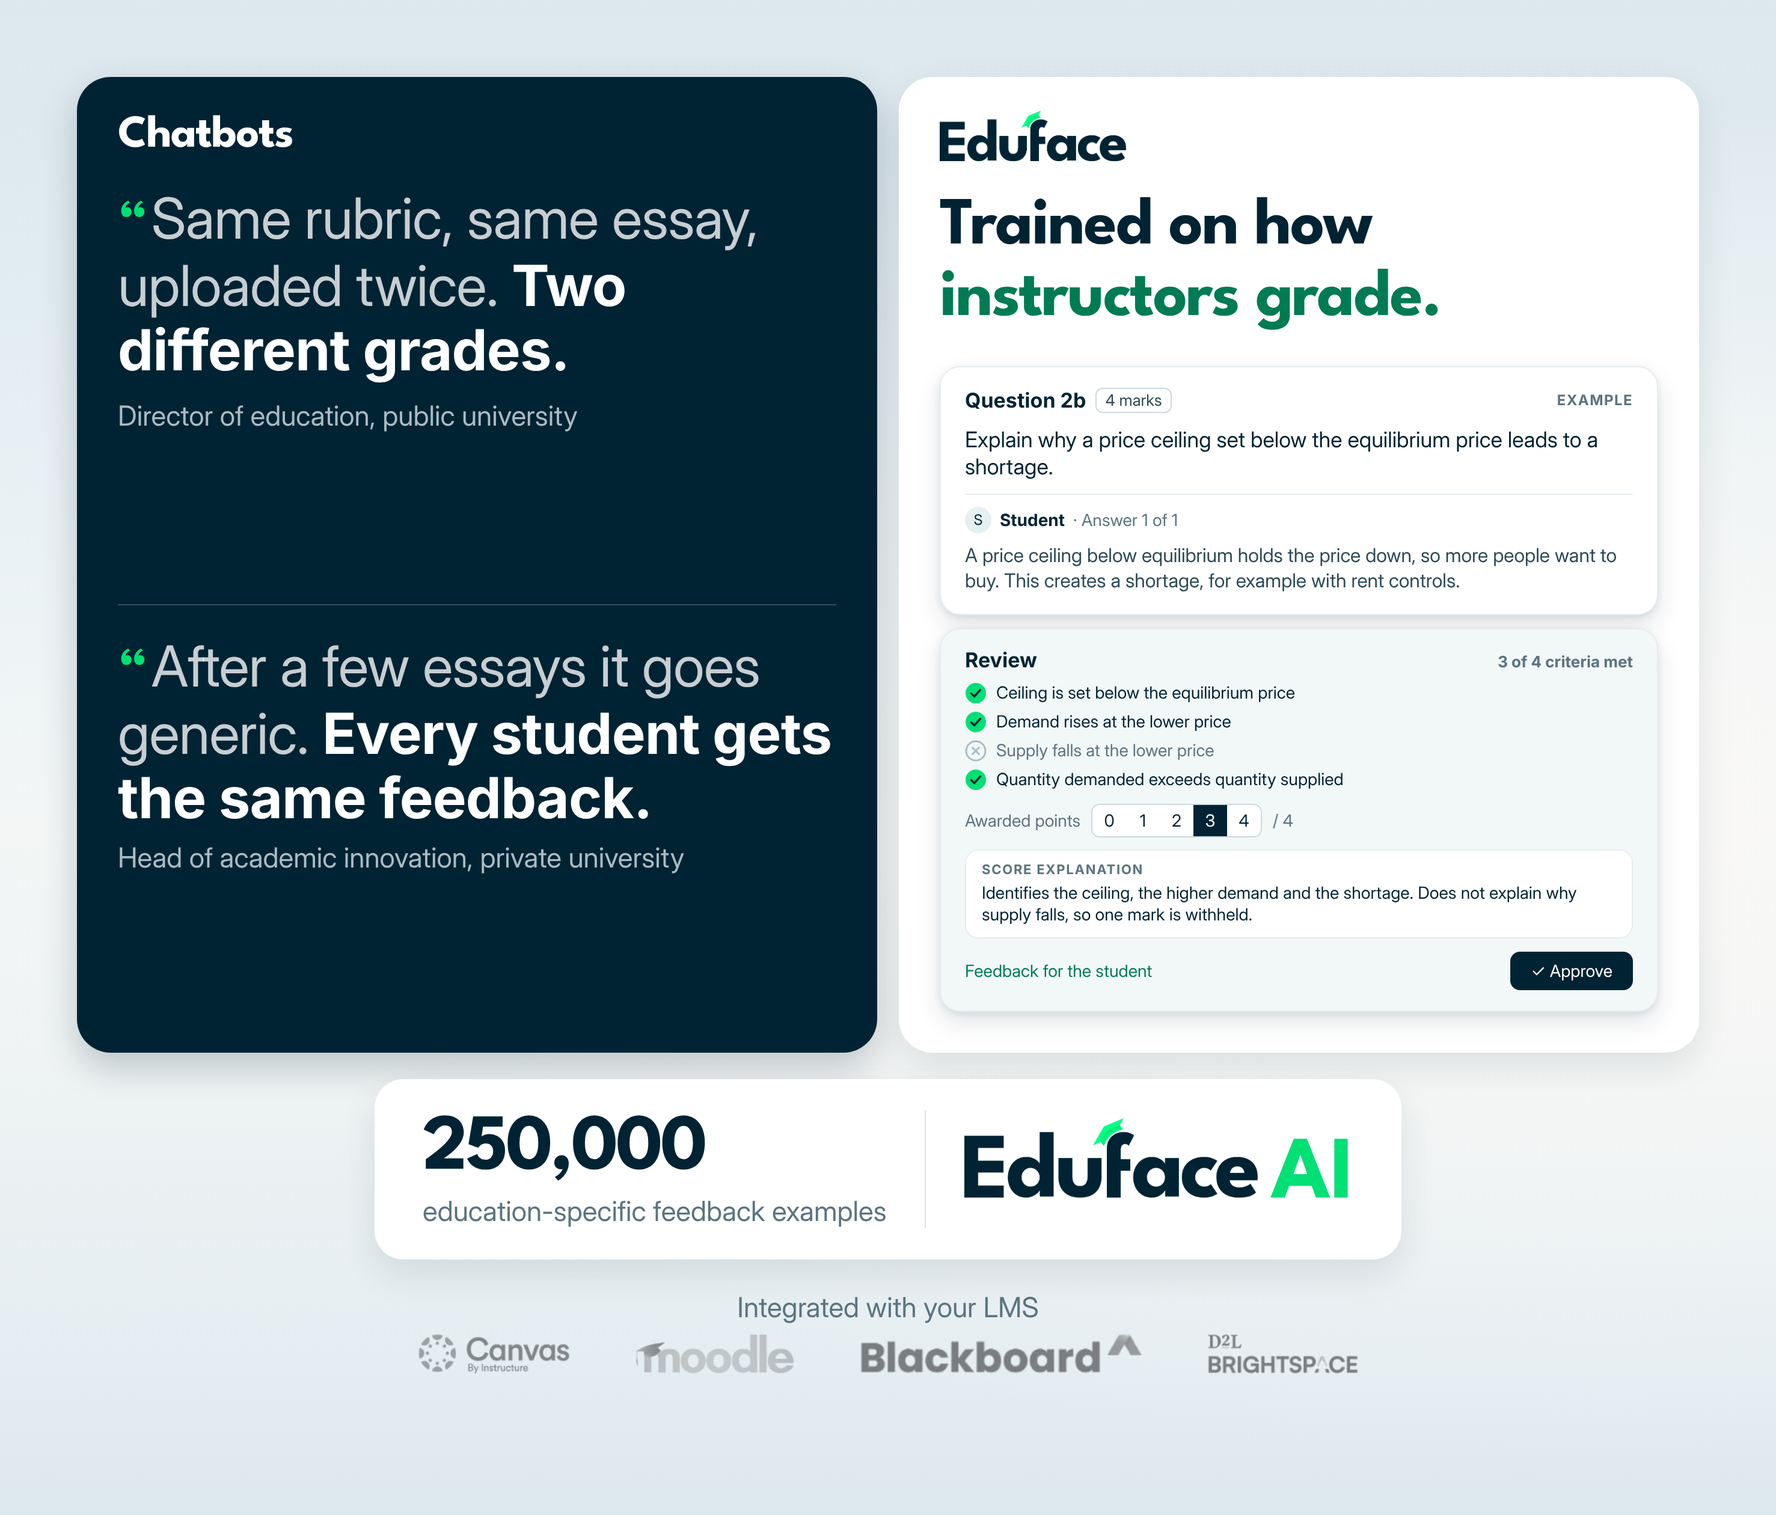
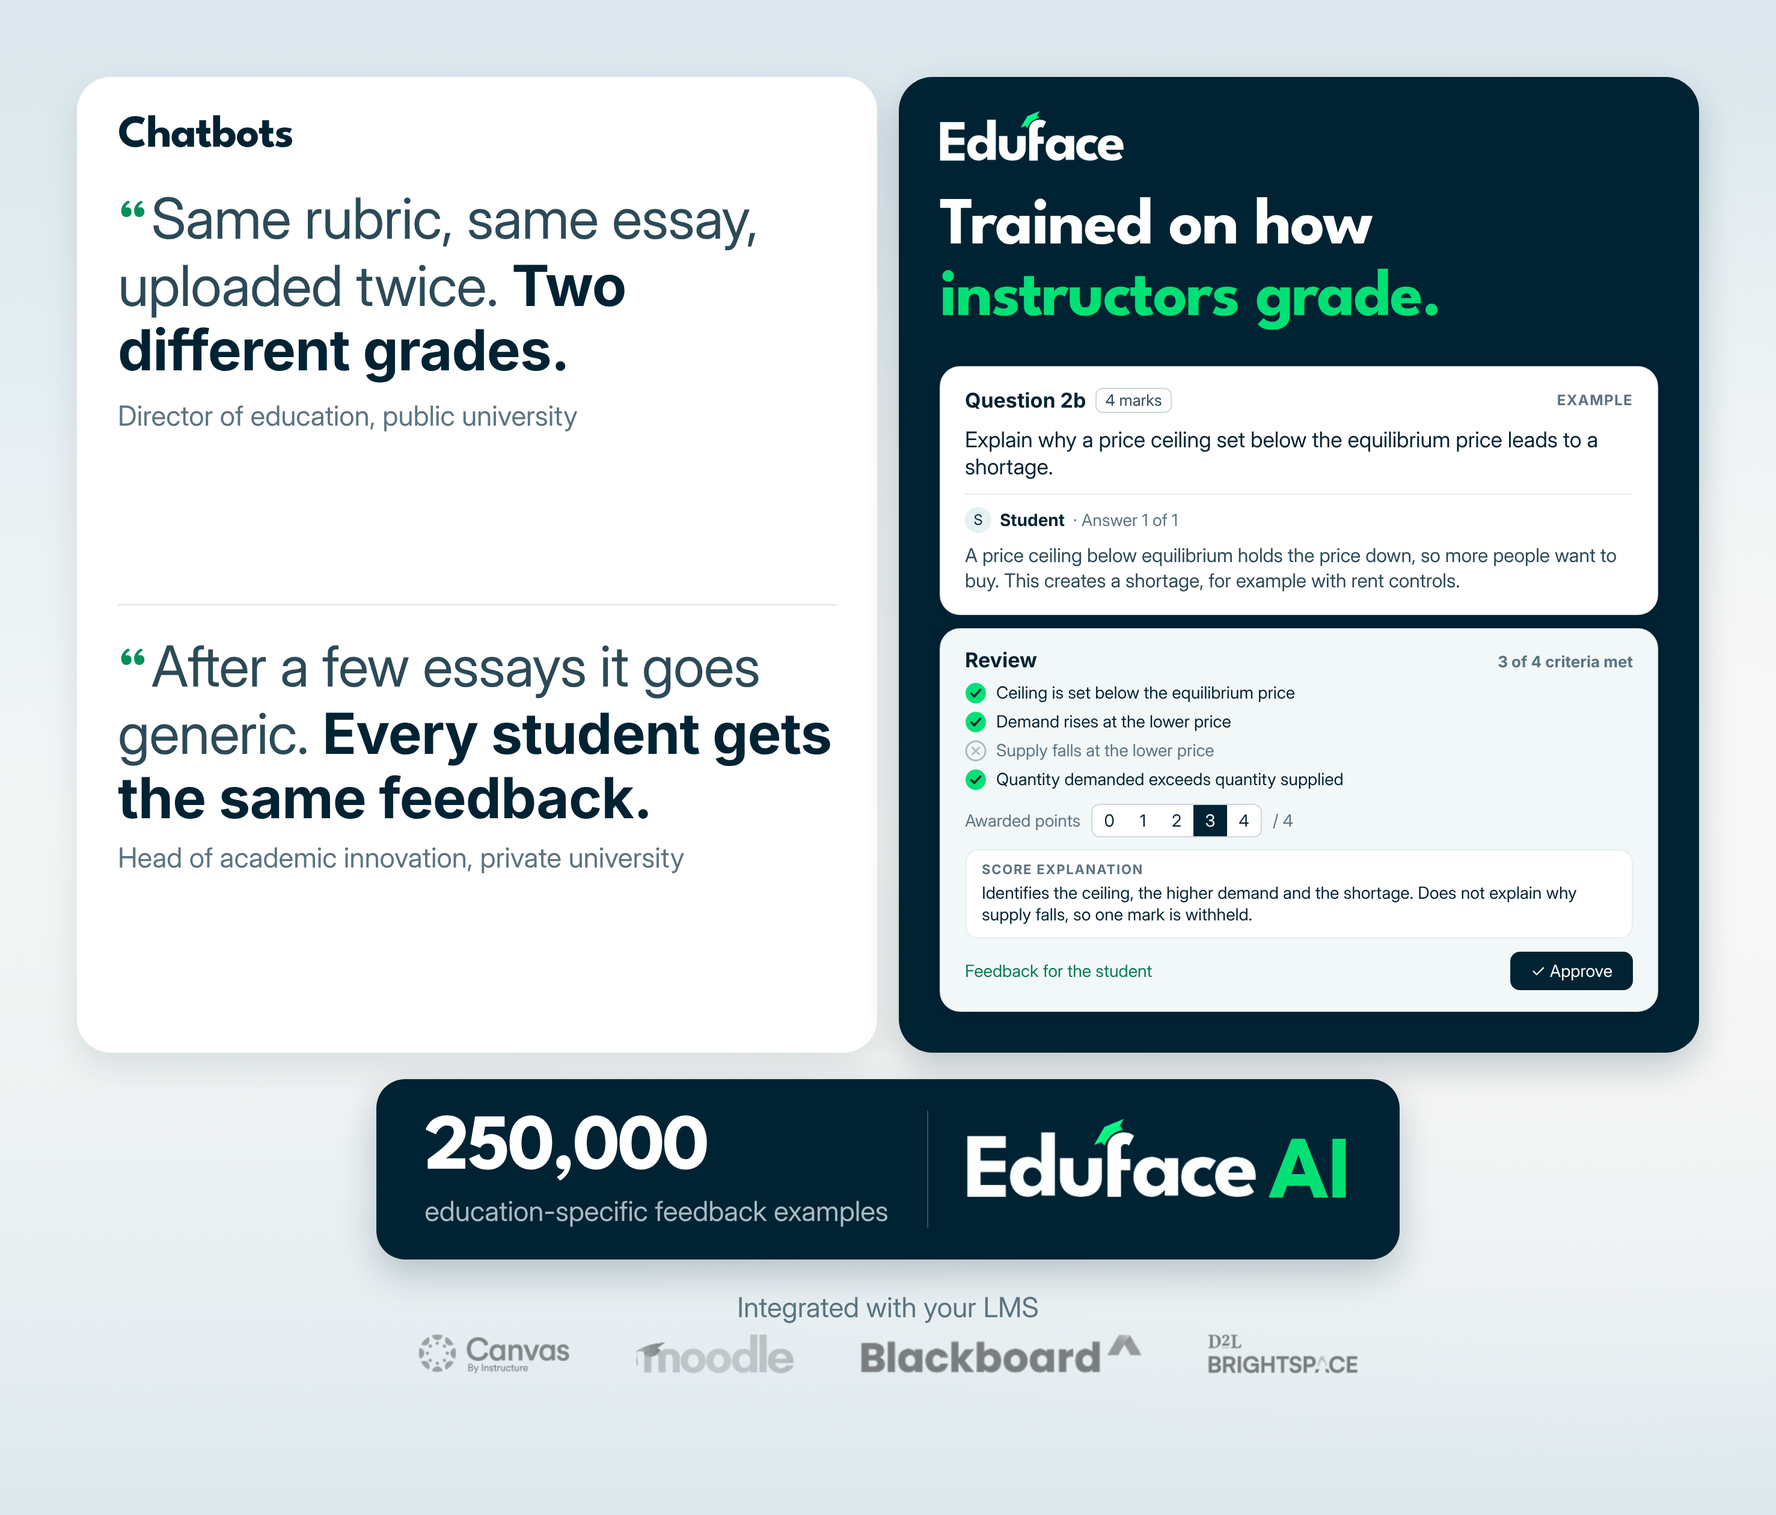
Backwall: Chatbots wit, Eduface-vlak en Eduface AI-blok navy
Claude-Session: https://claude.ai/code/session_011t24oRcD5DFuXzKigdVhtb

diff --git a/creatives/beurs-backwall/backwall-chatbots-navy-2026-11-25.html b/creatives/beurs-backwall/backwall-chatbots-navy-2026-11-25.html
@@ -1,0 +1,122 @@
+<!doctype html>
+<html lang="en">
+<head>
+<meta charset="utf-8">
+<title>Beurs backwall</title>
+<style>
+  /* Canvas: 1 px = 1 mm. Wand 2954 x 2520 mm. De kop van de gevel staat NIET op de wand.
+     Links licht = Chatbots (het probleem, twee quotes), rechts navy = Eduface (een boodschap + productscreenshot).
+     Daaronder een rustig wit blok (250,000 en Eduface AI), dan de LMS-rij gecentreerd.
+     Lettersysteem: Inter 92 (quotes) / League Spartan 92 (kop rechts) / League Spartan 76 (vlakkoppen) / Inter 46 (bronnen, labels). */
+  @font-face { font-family: "League Spartan"; font-weight: 700; src: url("../../Design/Merk/fonts/LeagueSpartan-Bold.ttf"); }
+  @font-face { font-family: "Inter"; font-weight: 400; src: url("../../Design/Merk/fonts/Inter-Regular.ttf"); }
+  @font-face { font-family: "Inter"; font-weight: 700; src: local("Inter Bold"), local("Inter-Bold"), url("file:///usr/share/fonts/opentype/inter/Inter-Bold.otf"); }
+  :root { --w: 2954px; --h: 2520px; --navy: #002333; --g: #00e075; --g6: #008f5a; --i7: #2c4a57; --i5: #5b7480; --i3: #a9bcc4; --i50: #f3f7f8; }
+  * { margin: 0; box-sizing: border-box; }
+  html, body { width: var(--w); height: var(--h); }
+  .wall {
+    position: relative; width: var(--w); height: var(--h); overflow: hidden; color: var(--navy);
+    background:
+      radial-gradient(ellipse 80% 45% at 90% 52%, #f9f8f7 0%, rgba(249,248,247,0) 100%),
+      linear-gradient(180deg, #dce7ee 0%, #e2edf1 20%, #ecf3f5 40%, #f4f6f6 55%, #eff3f3 70%, #e4edf1 90%, #dde8ee 100%);
+  }
+  .g { position: absolute; left: 128px; top: 128px; width: 2698px; display: grid; grid-template-columns: 1331px 1331px; column-gap: 36px; }
+  .pl, .pr { border-radius: 56px; box-shadow: 0 24px 60px rgba(0,35,51,.10); }
+  .pl { grid-column: 1; grid-row: 1; background: var(--navy); box-shadow: 0 24px 60px rgba(0,35,51,.22); color: #fff; padding: 56px 68px 64px; display: flex; flex-direction: column; justify-content: flex-start; gap: 52px; }
+  .pr { grid-column: 2; grid-row: 1; background: #fff; box-shadow: 0 24px 60px rgba(0,35,51,.10); padding: 56px 68px 68px; display: flex; flex-direction: column; gap: 52px; color: var(--navy); }
+
+  .hd { font: 700 76px/1 "League Spartan"; letter-spacing: -.02em; color: #fff; height: 84px; display: flex; align-items: center; }
+  .pr img.lg { height: 84px; width: auto; align-self: flex-start; }
+
+  .qt { font: 400 94px/1.14 Inter; color: rgba(255,255,255,.78); letter-spacing: -.01em; }
+  .qt .qm { font: 700 94px/1 "League Spartan"; color: var(--g); margin-right: 8px; }
+  .qt mark { background: none; color: #fff; font-weight: 700; }
+  .who { font: 400 46px/1.2 Inter; color: var(--i3); margin-top: 18px; }
+  .q { flex: 1 1 0; }
+  .hd + .q .qt { position: relative; top: -10px; }   /* bovenkant tekst gelijk met de kop rechts */
+  .q + .q { border-top: 2px solid rgba(255,255,255,.2); padding-top: 48px; }
+
+  .eh { font: 700 112px/1.06 "League Spartan"; letter-spacing: -.02em; color: var(--navy); }
+  .eh span { color: #007b54; }
+  /* nagebouwd voorbeeld van het reviewscherm (Economics, UK). Verzonnen inhoud, daarom gelabeld als Example. */
+  .mock { margin-top: auto; width: 100%; display: flex; flex-direction: column; gap: 22px; font-family: Inter, sans-serif; color: var(--navy); }
+  .m1, .m2 { border-radius: 34px; padding: 34px 40px; box-shadow: 0 4px 12px rgba(0,35,51,.08), 0 18px 40px rgba(0,35,51,.12); }
+  .m1 { background: #fff; border: 2px solid #e6edf0; }
+  .m2 { background: #f2f7f8; border: 2px solid #e6edf0; }
+  .m1 .top { display: flex; align-items: center; gap: 16px; }
+  .m1 .qn { font: 700 34px/1 Inter; } .m2 .qn { font: 700 34px/1 Inter; }
+  .pill2 { font: 400 26px/1 Inter; border: 2px solid #cdd9de; border-radius: 12px; padding: 6px 14px; color: var(--i7); }
+  .ex { margin-left: auto; font: 700 24px/1 Inter; letter-spacing: .06em; text-transform: uppercase; color: var(--i5); }
+  .m1 .q { font: 500 36px/1.25 Inter; margin: 22px 0 22px; }
+  .m1 hr { border: 0; border-top: 2px solid #e6edf0; margin: 0 0 20px; }
+  .who2 { display: flex; align-items: center; gap: 14px; font: 700 28px/1 Inter; }
+  .who2 .av { width: 44px; height: 44px; border-radius: 50%; background: #e4f0f2; display: flex; align-items: center; justify-content: center; font: 500 24px/1 Inter; }
+  .who2 .an { font-weight: 400; color: var(--i5); }
+  .ans { font: 400 32px/1.3 Inter; color: var(--i7); margin-top: 16px; }
+  .m2 .hdr { display: flex; justify-content: space-between; align-items: baseline; }
+  .m2 .met { font: 700 26px/1 Inter; color: var(--i5); }
+  .crit { display: flex; flex-direction: column; gap: 12px; margin: 20px 0 22px; }
+  .cr { display: flex; align-items: center; gap: 16px; font: 400 28px/1.2 Inter; }
+  .cr svg { flex: none; width: 36px; height: 36px; }
+  .cr.no { color: var(--i5); }
+  .pts { display: flex; align-items: center; gap: 18px; font: 400 28px/1 Inter; color: var(--i5); }
+  .seg { display: flex; border: 2px solid #cdd9de; border-radius: 14px; overflow: hidden; background: #fff; }
+  .seg span { width: 56px; height: 52px; display: flex; align-items: center; justify-content: center; font: 500 28px/1 Inter; color: var(--navy); }
+  .seg span.on { background: var(--navy); color: #fff; }
+  .expl { background: #fff; border: 2px solid #e6edf0; border-radius: 22px; padding: 20px 26px; margin: 20px 0 22px; }
+  .expl .lb { font: 700 22px/1 Inter; letter-spacing: .08em; color: var(--i5); }
+  .expl .tx { font: 400 28px/1.3 Inter; margin-top: 10px; }
+  .foot2 { display: flex; justify-content: space-between; align-items: center; }
+  .fb { font: 500 28px/1 Inter; color: #007b54; }
+  .appr { background: var(--navy); color: #fff; border-radius: 16px; padding: 18px 34px; font: 500 28px/1 Inter; display: flex; align-items: center; gap: 12px; }
+
+  /* wit blok: Eduface AI en 250,000 vormen een geheel, in het midden */
+  .ai { grid-column: 1 / 3; grid-row: 2; justify-self: center; width: fit-content; margin-top: 44px; background: #fff; border-radius: 48px; padding: 52px 80px; display: flex; align-items: center; justify-content: center; gap: 64px;
+        box-shadow: 0 24px 60px rgba(0,35,51,.10); }
+  .lock { display: flex; align-items: baseline; gap: 22px; }
+  .lock img { height: 132px; width: auto; }
+  .lock .aitxt { font: 700 148px/1 "League Spartan"; color: var(--g); letter-spacing: -.01em; }
+  .ai .sep { width: 2px; align-self: stretch; background: rgba(0,35,51,.14); }
+  .ai .n { font: 700 132px/1 "League Spartan"; letter-spacing: -.03em; color: var(--navy); }
+  .ai .l { font: 400 46px/1.2 Inter; color: var(--i5); margin-top: 8px; }
+
+  .lms { grid-column: 1 / 3; grid-row: 3; justify-self: center; margin-top: 56px; display: flex; flex-direction: column; align-items: center; gap: 22px; }
+  .lms .lab { font: 400 46px/1 Inter; color: var(--i5); white-space: nowrap; }
+  .lms .row { display: flex; align-items: center; justify-content: center; gap: 110px; }
+  .lms img { height: 66px; width: auto; filter: grayscale(1) contrast(.9); opacity: .5; }
+</style>
+</head>
+<body>
+  <div class="wall" id="wall">
+    <div id="layer-content"></div>
+  </div>
+
+<script>
+const R0='Director of education, public university', R1='Head of academic innovation, private university';
+/* Quotes: formulering van Dante, 25-11-2026. Quote 2: bron in de case study, herschreven zin nog niet aan die persoon voorgelegd (V15). Quote 1: bronregel volgens Dante, klopt mogelijk niet (V17). */
+const Q=[{t:'Same rubric, same essay, uploaded twice. <mark>Two different grades.</mark>',w:R0},
+         {t:'After a few essays it goes generic. <mark>Every student gets the same feedback.</mark>',w:R1}];
+const left=`<div class="pl"><div class="hd">Chatbots</div>`+Q.map(q=>`<div class="q"><div class="qt"><span class="qm">“</span>${q.t}</div><div class="who">${q.w}</div></div>`).join('')+`</div>`;
+const right=`<div class="pr"><img class="lg" src="../../Design/Merk/logos/logo_navy.png"><div class="eh">Trained on how <span>instructors grade.</span></div>
+  <div class="mock">
+    <div class="m1"><div class="top"><div class="qn">Question 2b</div><div class="pill2">4 marks</div><div class="ex">Example</div></div>
+      <div class="q">Explain why a price ceiling set below the equilibrium price leads to a shortage.</div><hr>
+      <div class="who2"><div class="av">S</div>Student <span class="an">&middot; Answer 1 of 1</span></div>
+      <div class="ans">A price ceiling below equilibrium holds the price down, so more people want to buy. This creates a shortage, for example with rent controls.</div></div>
+    <div class="m2"><div class="hdr"><div class="qn">Review</div><div class="met">3 of 4 criteria met</div></div>
+      <div class="crit">
+        <div class="cr"><svg viewBox="0 0 36 36"><circle cx="18" cy="18" r="17" fill="#00e075"/><path d="M10.5 18.5l5 5 10-11" fill="none" stroke="#002333" stroke-width="3.4" stroke-linecap="round" stroke-linejoin="round"/></svg>Ceiling is set below the equilibrium price</div>
+        <div class="cr"><svg viewBox="0 0 36 36"><circle cx="18" cy="18" r="17" fill="#00e075"/><path d="M10.5 18.5l5 5 10-11" fill="none" stroke="#002333" stroke-width="3.4" stroke-linecap="round" stroke-linejoin="round"/></svg>Demand rises at the lower price</div>
+        <div class="cr no"><svg viewBox="0 0 36 36"><circle cx="18" cy="18" r="16" fill="none" stroke="#a9bcc4" stroke-width="3"/><path d="M12.5 12.5l11 11M23.5 12.5l-11 11" stroke="#a9bcc4" stroke-width="3" stroke-linecap="round"/></svg>Supply falls at the lower price</div>
+        <div class="cr"><svg viewBox="0 0 36 36"><circle cx="18" cy="18" r="17" fill="#00e075"/><path d="M10.5 18.5l5 5 10-11" fill="none" stroke="#002333" stroke-width="3.4" stroke-linecap="round" stroke-linejoin="round"/></svg>Quantity demanded exceeds quantity supplied</div></div>
+      <div class="pts">Awarded points<div class="seg"><span>0</span><span>1</span><span>2</span><span class="on">3</span><span>4</span></div><span>/ 4</span></div>
+      <div class="expl"><div class="lb">SCORE EXPLANATION</div><div class="tx">Identifies the ceiling, the higher demand and the shortage. Does not explain why supply falls, so one mark is withheld.</div></div>
+      <div class="foot2"><div class="fb">Feedback for the student</div><div class="appr">&#10003; Approve</div></div></div>
+  </div></div>`;
+const ai=`<div class="ai"><div><div class="n">250,000</div><div class="l">education-specific feedback examples</div></div><div class="sep"></div>
+  <div class="lock"><img src="../../Design/Merk/logos/logo_navy.png"><div class="aitxt">AI</div></div></div>`;
+const lms=`<div class="lms"><div class="lab">Integrated with your LMS</div><div class="row"><img src="assets/logos/lms-canvas.png"><img src="assets/logos/lms-moodle.png"><img src="assets/logos/lms-blackboard.png"><img src="assets/logos/lms-brightspace.png"></div></div>`;
+document.getElementById('layer-content').innerHTML=`<div class="g">${left}${right}${ai}${lms}</div>`;
+</script>
+</body>
+</html>

diff --git a/creatives/beurs-backwall/backwall.html b/creatives/beurs-backwall/backwall.html
@@ -22,22 +22,22 @@
   }
   .g { position: absolute; left: 128px; top: 128px; width: 2698px; display: grid; grid-template-columns: 1331px 1331px; column-gap: 36px; }
   .pl, .pr { border-radius: 56px; box-shadow: 0 24px 60px rgba(0,35,51,.10); }
-  .pl { grid-column: 1; grid-row: 1; background: var(--navy); box-shadow: 0 24px 60px rgba(0,35,51,.22); color: #fff; padding: 56px 68px 64px; display: flex; flex-direction: column; justify-content: flex-start; gap: 52px; }
-  .pr { grid-column: 2; grid-row: 1; background: #fff; box-shadow: 0 24px 60px rgba(0,35,51,.10); padding: 56px 68px 68px; display: flex; flex-direction: column; gap: 52px; color: var(--navy); }
+  .pl { grid-column: 1; grid-row: 1; background: #fff; box-shadow: 0 24px 60px rgba(0,35,51,.10); color: var(--navy); padding: 56px 68px 64px; display: flex; flex-direction: column; justify-content: flex-start; gap: 52px; }
+  .pr { grid-column: 2; grid-row: 1; background: var(--navy); box-shadow: 0 24px 60px rgba(0,35,51,.22); padding: 56px 68px 68px; display: flex; flex-direction: column; gap: 52px; color: #fff; }
 
-  .hd { font: 700 76px/1 "League Spartan"; letter-spacing: -.02em; color: #fff; height: 84px; display: flex; align-items: center; }
+  .hd { font: 700 76px/1 "League Spartan"; letter-spacing: -.02em; color: var(--navy); height: 84px; display: flex; align-items: center; }
   .pr img.lg { height: 84px; width: auto; align-self: flex-start; }
 
-  .qt { font: 400 94px/1.14 Inter; color: rgba(255,255,255,.78); letter-spacing: -.01em; }
-  .qt .qm { font: 700 94px/1 "League Spartan"; color: var(--g); margin-right: 8px; }
-  .qt mark { background: none; color: #fff; font-weight: 700; }
-  .who { font: 400 46px/1.2 Inter; color: var(--i3); margin-top: 18px; }
+  .qt { font: 400 94px/1.14 Inter; color: var(--i7); letter-spacing: -.01em; }
+  .qt .qm { font: 700 94px/1 "League Spartan"; color: var(--g6); margin-right: 8px; }
+  .qt mark { background: none; color: var(--navy); font-weight: 700; }
+  .who { font: 400 46px/1.2 Inter; color: var(--i5); margin-top: 18px; }
   .q { flex: 1 1 0; }
   .hd + .q .qt { position: relative; top: -10px; }   /* bovenkant tekst gelijk met de kop rechts */
-  .q + .q { border-top: 2px solid rgba(255,255,255,.2); padding-top: 48px; }
+  .q + .q { border-top: 2px solid rgba(0,35,51,.12); padding-top: 48px; }
 
-  .eh { font: 700 112px/1.06 "League Spartan"; letter-spacing: -.02em; color: var(--navy); }
-  .eh span { color: #007b54; }
+  .eh { font: 700 112px/1.06 "League Spartan"; letter-spacing: -.02em; color: #fff; }
+  .eh span { color: var(--g); }
   /* nagebouwd voorbeeld van het reviewscherm (Economics, UK). Verzonnen inhoud, daarom gelabeld als Example. */
   .mock { margin-top: auto; width: 100%; display: flex; flex-direction: column; gap: 22px; font-family: Inter, sans-serif; color: var(--navy); }
   .m1, .m2 { border-radius: 34px; padding: 34px 40px; box-shadow: 0 4px 12px rgba(0,35,51,.08), 0 18px 40px rgba(0,35,51,.12); }
@@ -71,14 +71,14 @@
   .appr { background: var(--navy); color: #fff; border-radius: 16px; padding: 18px 34px; font: 500 28px/1 Inter; display: flex; align-items: center; gap: 12px; }
 
   /* wit blok: Eduface AI en 250,000 vormen een geheel, in het midden */
-  .ai { grid-column: 1 / 3; grid-row: 2; justify-self: center; width: fit-content; margin-top: 44px; background: #fff; border-radius: 48px; padding: 52px 80px; display: flex; align-items: center; justify-content: center; gap: 64px;
-        box-shadow: 0 24px 60px rgba(0,35,51,.10); }
+  .ai { grid-column: 1 / 3; grid-row: 2; justify-self: center; width: fit-content; margin-top: 44px; background: var(--navy); border-radius: 48px; padding: 52px 80px; display: flex; align-items: center; justify-content: center; gap: 64px;
+        box-shadow: 0 24px 60px rgba(0,35,51,.22); }
   .lock { display: flex; align-items: baseline; gap: 22px; }
   .lock img { height: 132px; width: auto; }
   .lock .aitxt { font: 700 148px/1 "League Spartan"; color: var(--g); letter-spacing: -.01em; }
-  .ai .sep { width: 2px; align-self: stretch; background: rgba(0,35,51,.14); }
-  .ai .n { font: 700 132px/1 "League Spartan"; letter-spacing: -.03em; color: var(--navy); }
-  .ai .l { font: 400 46px/1.2 Inter; color: var(--i5); margin-top: 8px; }
+  .ai .sep { width: 2px; align-self: stretch; background: rgba(255,255,255,.2); }
+  .ai .n { font: 700 132px/1 "League Spartan"; letter-spacing: -.03em; color: #fff; }
+  .ai .l { font: 400 46px/1.2 Inter; color: var(--i3); margin-top: 8px; }
 
   .lms { grid-column: 1 / 3; grid-row: 3; justify-self: center; margin-top: 56px; display: flex; flex-direction: column; align-items: center; gap: 22px; }
   .lms .lab { font: 400 46px/1 Inter; color: var(--i5); white-space: nowrap; }
@@ -97,7 +97,7 @@ const R0='Director of education, public university', R1='Head of academic innova
 const Q=[{t:'Same rubric, same essay, uploaded twice. <mark>Two different grades.</mark>',w:R0},
          {t:'After a few essays it goes generic. <mark>Every student gets the same feedback.</mark>',w:R1}];
 const left=`<div class="pl"><div class="hd">Chatbots</div>`+Q.map(q=>`<div class="q"><div class="qt"><span class="qm">“</span>${q.t}</div><div class="who">${q.w}</div></div>`).join('')+`</div>`;
-const right=`<div class="pr"><img class="lg" src="../../Design/Merk/logos/logo_navy.png"><div class="eh">Trained on how <span>instructors grade.</span></div>
+const right=`<div class="pr"><img class="lg" src="assets/logos/eduface-white.png"><div class="eh">Trained on how <span>instructors grade.</span></div>
   <div class="mock">
     <div class="m1"><div class="top"><div class="qn">Question 2b</div><div class="pill2">4 marks</div><div class="ex">Example</div></div>
       <div class="q">Explain why a price ceiling set below the equilibrium price leads to a shortage.</div><hr>
@@ -114,7 +114,7 @@ const right=`<div class="pr"><img class="lg" src="../../Design/Merk/logos/logo_n
       <div class="foot2"><div class="fb">Feedback for the student</div><div class="appr">&#10003; Approve</div></div></div>
   </div></div>`;
 const ai=`<div class="ai"><div><div class="n">250,000</div><div class="l">education-specific feedback examples</div></div><div class="sep"></div>
-  <div class="lock"><img src="../../Design/Merk/logos/logo_navy.png"><div class="aitxt">AI</div></div></div>`;
+  <div class="lock"><img src="assets/logos/eduface-white.png"><div class="aitxt">AI</div></div></div>`;
 const lms=`<div class="lms"><div class="lab">Integrated with your LMS</div><div class="row"><img src="assets/logos/lms-canvas.png"><img src="assets/logos/lms-moodle.png"><img src="assets/logos/lms-blackboard.png"><img src="assets/logos/lms-brightspace.png"></div></div>`;
 document.getElementById('layer-content').innerHTML=`<div class="g">${left}${right}${ai}${lms}</div>`;
 </script>
